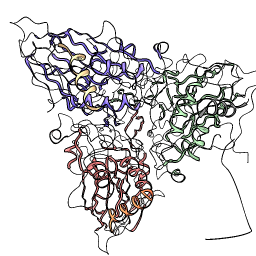
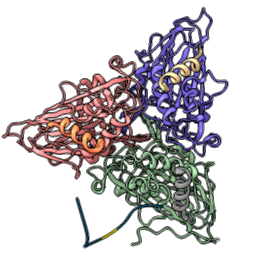
Updated quick start guide command and images.

diff --git a/docs/quickstart/index.html b/docs/quickstart/index.html
@@ -6,7 +6,7 @@
 
 <h1>ChimeraX Quick Start Guide</h1>
 
-<p>August 28, 2015</p>
+<p>January 12, 2016</p>
 
 <p>
 ChimeraX is the next-generation visualization program from the 
@@ -37,12 +37,12 @@ although many aspects will be familiar from Chimera.
 </p>
 
 <h3>
-Initial Release in December 2015
+Initial Release in March 2016
 </h3>
 
 <p>
-We plan an initial release with basic capabilities at the end of 2015, 
-on Mac (10.10 or newer) and Linux computers.  
+We plan an initial release with basic capabilities in March 2016,
+on Mac (10.10 or newer) and possibly Linux computers.  
 A Windows release will be later in 2016.
 </p>
 
@@ -74,66 +74,51 @@ target="_blank">2BBV</a>, black beetle virus capsid
 <table cellpadding=5>
 <tr>
 <td width=256 align=center><a href="cxcmd:close; open 2bbv">open 2bbv</a>
-<td width=256 align=center><a href="cxcmd:color #1 bychain">color #1 bychain</a>
 <td width=256 align=center><a href="cxcmd:style /b stick">style /b stick</a>
 <td width=256>Mouse drag to move.
+<td width=256 align=center><a href="cxcmd:hide /c">hide /c</a>
 <tr>
-<td><img src="images/open.png">
 <td><img src="images/colorchain.png">
 <td><img src="images/stick.png">
 <td><img src="images/shift.png">
+<td><img src="images/undisplay.png">
 <tr>
 <td width=256 valign=top><i>File is fetched from PDB in mmCIF format and cached in ~/Downloads/Chimera/PDB</i>
-<td width=256 valign=top><i>Each chain gets its own color.</i>
 <td width=256 valign=top><i>Change chain b to stick style.</i>
 <td width=256 valign=top><i>Rotate by dragging mouse, translate by dragging mouse with option key pressed.</i>
+<td width=256 valign=top><i>Hide chain c atoms.</i>
 </table>
 
 <hr>
 
 <table cellpadding=5>
 <tr>
-<td width=256 align=center><a href="cxcmd:~display /c">~display /c</a>
 <td width=256 align=center><a href="cxcmd:ribbon /c">ribbon /c</a>
-<td width=256>Mouse click to select an atom.
+<td width=256>Mouse click with ctrl key pressed to select an atom.
 <td width=256>Press up-arrow key.
+<td width=256 align=center><a href="cxcmd:color sel gold">color sel gold</a>
 <tr>
-<td><img src="images/undisplay.png">
 <td><img src="images/ribbon.png">
 <td><img src="images/select.png">
 <td><img src="images/uparrow.png">
+<td><img src="images/color.png">
 <tr>
-<td width=256 valign=top><i>Hide chain c atoms.</i>
 <td width=256 valign=top><i>Display backbone ribbon</i>
-<td width=256 valign=top><i>Click to select showing green outline, shift-click to add to selection, click background to clear selection.</i>
+<td width=256 valign=top><i>Selection has green outline, shift-ctrl-click to add to selection, ctrl-click background to clear selection.</i>
 <td width=256 valign=top><i>Up arrow and down arrow keys expand and unexpand selection.</i>
+<td width=256 valign=top><i>Use "sel" to refer to selected atoms in any command.</i>
 </table>
 
 <hr>
 
 <table cellpadding=5>
 <tr>
-<td width=256 align=center><a href="cxcmd:color sel gold">color sel gold</a>
 <td width=256 align=center><a href="cxcmd:surface #1">surface #1</a>
-<td width=256 align=center><a href="cxcmd:~display; display :HOH; style sphere">~display<br>display :HOH<br>style sphere</a>
+<td width=256 align=center><a href="cxcmd:show solvent; color solvent red; style sphere; hide ~solvent">show solvent<br>color solvent red<br>style sphere<br>hide ~solvent</a>
+<td width=256 align=center><a href="cxcmd:sym #1">sym #1</a>
 <tr>
-<td><img src="images/color.png">
 <td><img src="images/surface.png">
 <td><img src="images/water.png">
-<tr>
-<td width=256 valign=top><i>Use "sel" to refer to selected atoms in any command.</i>
-<td width=256 valign=top><i>Solvent excluded surface for each chain.</i>
-<td width=256 valign=top><i>Show waters as red spheres.</i>
-</table>
-
-<hr>
-
-<table cellpadding=5>
-<tr>
-<td width=256 align=center><a href="cxcmd:sym #1">sym #1</a>
-<td width=256 align=center><a href="cxcmd:sym #1 assembly 1">sym #1 assembly 1</a>
-<td width=256 align=center><a href="cxcmd:view">view</a>
-<tr>
 <td>
 <pre>
 Assemblies for 2bbv
@@ -144,42 +129,40 @@ Assemblies for 2bbv
 PAU = icosahedral asymmetric unit, std point frame (1 copies)
 XAU = crystal asymmetric unit, crystal frame (5 copies)
 </pre>
-<td><img src="images/assembly.png">
-<td><img src="images/view.png">
 <tr>
+<td width=256 valign=top><i>Solvent excluded surface for each chain.</i>
+<td width=256 valign=top><i>Show waters as red spheres.</i>
 <td width=256 valign=top><i>List mmCIF assemblies.</i>
+</table>
+
+<hr>
+
+<table cellpadding=5>
+<tr>
+<td width=256 align=center><a href="cxcmd:sym #1 assembly 3">sym #1 assembly 3</a>
+<td width=256 align=center><a href="cxcmd:view">view</a>
+<td width=256 align=center><a href="cxcmd:light full; set bg white; set silhouettes true">light full<br>set bg white<br>set silhouettes true</a>
+<td width=256 align=center><a href="cxcmd:sym #1 clear; surf close; hide; ribbon; save ~/Desktop/2bbv.png">sym #1 clear<br>surf close<br>ribbon<br>hide<br>save ~/Desktop/2bbv.png</a>
+<tr>
+<td><img src="images/assembly3.png">
+<td><img src="images/view3.png">
+<td><img src="images/view3nice.png">
+<td><img src="images/ribbons.png">
+<tr>
 <td width=256 valign=top><i>Show the assembly named "1".</i>
 <td width=256 valign=top><i>Bring all models into view.</i>
-</table>
-
-<hr>
-
-<table cellpadding=5>
-<tr>
-<td width=256 align=center><a href="cxcmd:light full">light full</a>
-<td width=256 align=center><a href="cxcmd:sym #1 assem 3; set bg white ; set silhouettes true; view">sym #1 assem 3<br>set bg white<br>set silhouettes true<br>view</a>
-<td width=256 align=center><a href="cxcmd:sym #1 clear; surf close; ribbon; save ~/Desktop/2bbv.png">sym #1 clear<br>surf close<br>ribbon<br>save ~/Desktop/2bbv.png</a>
-<td width=256 align=center><a href="cxcmd:display; ~ribbon; light flat">display<br>~ribbon<br>light flat</a>
-<tr>
-<td><img src="images/lightfull.png">
-<td><img src="images/pentamer.png">
-<td><img src="images/ribbons.png">
-<td><img src="images/flat.png">
-<tr>
-<td width=256 valign=top><i>Show direct and ambient shadows.</i>
-<td width=256 valign=top><i>Show pentamer assembly, set background color to white, show thin black edges.</i>
+<td width=256 valign=top><i>Show shadows, set background color to white, show thin black edges.</i>
 <td width=256 valign=top><i>Show asymmetric unit as ribbon and save image.</i>
-<td width=256 valign=top><i>Flat lighting with silhouette edges.</i>
 </table>
 
 <hr>
 
 <table cellpadding=5>
 <tr>
-<td width=256 align=center><a href="cxcmd:buriedarea /a with /b; sasa #1 & ~:HOH">buriedarea /a with /b<br>sasa #1 &amp; ~:HOH</a>
+<td width=256 align=center><a href="cxcmd:buriedarea /a with /b; sasa ~solvent">buriedarea /a with /b<br>sasa #1 &amp; ~solvent</a>
 
 <td width=256 align=center><a href="cxcmd:contacts #1">contacts #1</a>
-<td width=256 align=center><a href="cxcmd:light full; movie record super 3 ; turn y 3 120 ; wait ; movie encode ~/Desktop/spin.mp4 quality high">light full<br>movie record super 3 ; turn y 3 120 ; wait ; movie encode ~/Desktop/spin.mp4 quality high</a>
+<td width=256 align=center><a href="cxcmd:light full; movie record ; turn y 3 120 ; wait ; movie encode ~/Desktop/spin.mp4">light full<br>movie record ; turn y 3 120 ; wait ; movie encode ~/Desktop/spin.mp4</a>
 <tr>
 <td>
 <pre>
@@ -231,7 +214,7 @@ target="_blank">1A0M</a>, an &alpha;-conotoxin
 
 <table cellpadding=5>
 <tr>
-<td width=256 align=center><a href="cxcmd:close; open emdb:1080">open emdb:1080</a>
+<td width=256 align=center><a href="cxcmd:close; open 1080 from emdb">open 1080 from emdb</a>
 <td width=256 align=center><a href="cxcmd:volume #1 level 0.9">volume #1 level 0.9</a>
 <td width=256>
 <img src="images/contour.png" height=40 align=right>
@@ -260,9 +243,9 @@ then drag with right mouse button.
 <td width=256 align=center><a href="cxcmd:open 1grl">open 1grl</a>
 <td width=256 align=center>
 <img src="images/move_h2o.png" height=40 align=right>
-Click move selection mouse. Click atom to select.
+Click move selection mouse. Ctrl-click atom to select.
 Then right-mouse drag to move molecule into map.
-<td width=256 align=center><a href="cxcmd:fit #2 in #1; volume #1 transparency 0.5; color bychain">fit #2 in #1<br>volume #1 transparency 0.5<br>color bychain</a>
+<td width=256 align=center><a href="cxcmd:fit #2 in #1; volume #1 transparency 0.5">fit #2 in #1<br>volume #1 transparency 0.5</a>
 <tr>
 <td><img src="images/litmap.png">
 <td><img src="images/1grl.png">
@@ -283,27 +266,21 @@ Then right-mouse drag to move molecule into map.
 <table cellpadding=5>
 <tr>
 <td width=256 align=center><a href="cxcmd:molmap #2 10; vol #3 style mesh">molmap #2 10<br>vol #3 style mesh</a>
-<td width=256 align=center><a href="cxcmd:vop subtract #1,3 minRMS true; vol #4 color pink transparency 0; ~display ; ribbon">vop subtract #1,3 minRMS true<br>vol #4 color pink transparency 0<br>~display ; ribbon</a>
-<td width=256 align=center><a href="cxcmd:close; open emdb:1273">close<br>open emdb:1273</a>
-<td width=256 align=center><a href="cxcmd:volume #1 region all showOutline true">volume #1 region all showOutline true</a>
+<td width=256 align=center><a href="cxcmd:vop subtract #1,3 minRMS true; vol #4 color pink transparency 0; hide atoms; show ribbon">vop subtract #1,3 minRMS true<br>vol #4 color pink transparency 0<br>hide atoms; show ribbon</a>
 <tr>
 <td><img src="images/molmap.png">
 <td><img src="images/vopsub2.png">
-<td><img src="images/emdb1273.png">
-<td><img src="images/grayscale.png">
 <tr>
 <td width=256 valign=top><i>Create simulated map for atomic model at 10 Angstroms resolution and show as mesh.</i>
 <td width=256 valign=top><i>Subtract simulated map from experimental map.</i>
-<td width=256 valign=top><i>Open tomogram of a T-cell, single-plane grayscale displayed because of large map size.</i>
-<td width=256 valign=top><i>Show all planes of tomogram, grayscale rendering.</i>
 </table>
 
 <hr>
 
 <table cellpadding=5>
 <tr>
-<td width=256 align=center><a href="cxcmd:close; open eds:1a0m">open eds:1a0m</a>
-<td width=256 align=center><a href="cxcmd:open 1a0m; style stick; vol #1 level 1.0 style mesh">open 1a0m<br>style stick<br>vol #1 level 1.0 style mesh</a>
+<td width=256 align=center><a href="cxcmd:close; open 1a0m from eds">close<br>open 1a0m from eds</a>
+<td width=256 align=center><a href="cxcmd:open 1a0m; hide ribbon; show; vol #1 level 1.0 style mesh">open 1a0m<br>hide ribbon<br>show atoms<br>vol #1 level 1.0 style mesh</a>
 <td width=256 align=center><a href="cxcmd:vop zone #1 atoms #2 radius 2; vol #3 level .5 style mesh transp 0.6">vop zone #1 atoms #2 radius 2<br>
   vol #3 level .5 style mesh transp 0.6</a>
 <tr>
@@ -314,6 +291,20 @@ Then right-mouse drag to move molecule into map.
 <td width=256 valign=top><i>Open x-ray map for PDB 1a0m from Uppsala Electron Density Server.</i>
 <td width=256 valign=top><i>Show atomic model and x-ray map as mesh.</i>
 <td width=256 valign=top><i>Show map zone within 2 Angstroms of atoms.</i>
+</table>
+
+<hr>
+
+<table cellpadding=5>
+<tr>
+<td width=256 align=center><a href="cxcmd:close; open 1273 from emdb">close<br>open emdb:1273</a>
+<td width=256 align=center><a href="cxcmd:volume #1 region all showOutline true">volume #1 region all showOutline true</a>
+<tr>
+<td><img src="images/emdb1273.png">
+<td><img src="images/grayscale.png">
+<tr>
+<td width=256 valign=top><i>Open tomogram of a T-cell (200 Mbytes), single-plane grayscale displayed because of large map size.</i>
+<td width=256 valign=top><i>Show all planes of tomogram, grayscale rendering.</i>
 </table>
 
 </html>
